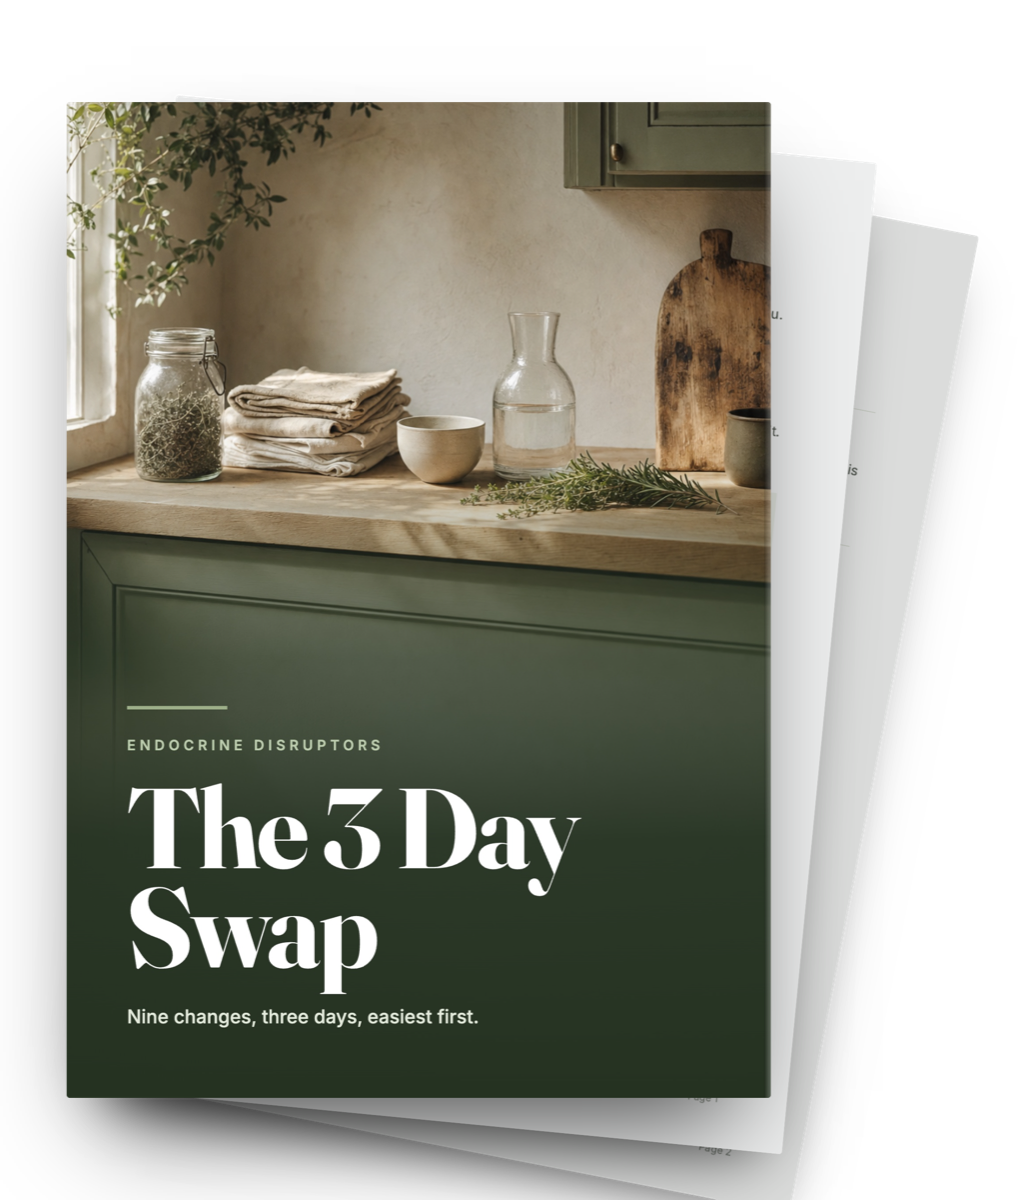
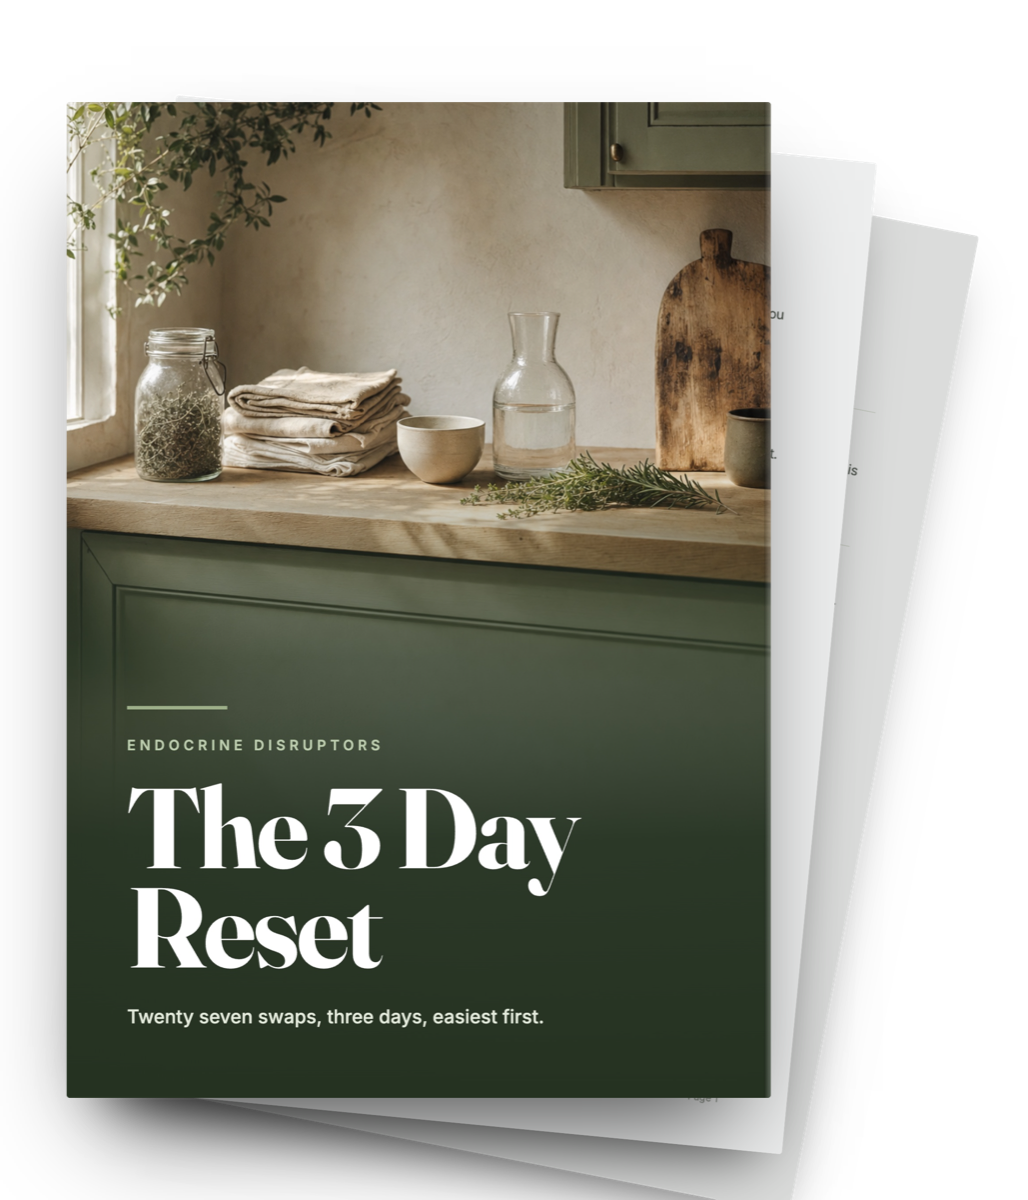
disruptor: The 3 Day Reset, 27 swaps and three food resets

Changed region(s): [[0.1245, 0.74, 0.5292, 0.8633]]

diff --git a/beneve/beneve-disruptor-quiz/b-disruptor-quiz-advanced-result/block.html b/beneve/beneve-disruptor-quiz/b-disruptor-quiz-advanced-result/block.html
@@ -85,8 +85,9 @@
            their most interested. It is short on purpose: the block below carries the detail. -->
       <div class="sk-ask" data-rise>
         <p class="sk-ask-t">Want the full program?</p>
-        <p class="sk-ask-p">The 3 Day Swap is 9 swaps over 3 days,
-          room by room. It's free. Send me the word SWAP and I'll send it over.</p>
+        <p class="sk-ask-p">The 3 Day Reset is 27 swaps over 3 days,
+          9 a day, with a source on every claim and one thing to add at the table each
+          day. It's free. Send me the word SWAP and I'll send it over.</p>
         <a class="sk-ask-btn" href="/b-disruptor-quiz-redirect-dm">Message Me The Word SWAP
           <svg viewBox="0 0 24 24" fill="none" stroke="currentColor" stroke-width="2.2" stroke-linecap="round" stroke-linejoin="round" aria-hidden="true"><path d="M5 12h14M13 6l6 6-6 6"/></svg>
         </a>
@@ -103,28 +104,29 @@
         </figure>
         <div class="sk-prog-body">
           <p class="sk-prog-kicker" data-rise>Your bonus</p>
-          <h2 class="sk-prog-h2" data-rise data-delay="1">The 3 Day Swap</h2>
-          <p class="sk-prog-lede" data-rise data-delay="2">9 swaps over 3 days. Day one costs nothing and you can do it tonight.</p>
+          <h2 class="sk-prog-h2" data-rise data-delay="1">The 3 Day Reset</h2>
+          <p class="sk-prog-lede" data-rise data-delay="2">27 swaps over 3 days, 9 a day, plus one thing to add at the table each day. Day one costs nothing and you can do it tonight.</p>
           <ul class="sk-prog-pills" data-rise data-delay="2">
-            <li>9 swaps</li>
+            <li>27 swaps</li>
             <li>3 days</li>
-            <li>PDF</li>
+            <li>3 food resets</li>
+            <li>Sourced</li>
           </ul>
           <ul class="sk-prog-days" data-rise data-delay="3">
             <li>
               <span class="sk-prog-d">Day 1</span>
               <h3>Nothing to buy</h3>
-              <p>Never heat food in plastic. Damp dust and open a window. Say no to the receipt.</p>
+              <p>Nine habits. Never heat food in plastic. Say no to the receipt. Shoes off at the door. Plus: cruciferous vegetables.</p>
             </li>
             <li>
               <span class="sk-prog-d">Day 2</span>
               <h3>Replace as they run out</h3>
-              <p>Laundry detergent and dryer sheets. Deodorant, body wash and shampoo. Candles, plug-ins and air freshener.</p>
+              <p>Nine swaps. Laundry detergent. Body wash and shampoo. Candles and plug-ins. Cling film. Plus: fibre.</p>
             </li>
             <li>
               <span class="sk-prog-d">Day 3</span>
               <h3>Buy once, keep for years</h3>
-              <p>A water filter. One good pan. Glass or steel for food storage.</p>
+              <p>Nine purchases. A water filter. A shower filter. One good pan. Glass storage. Plus: protein and sulphur foods.</p>
             </li>
           </ul>
           <a class="sk-prog-btn" href="/b-disruptor-quiz-redirect-dm" data-rise data-delay="4">Message Me The Word SWAP
@@ -148,7 +150,7 @@
   </section>
 
   <div class="sk-prog-bar">
-    <span><b>Bonus</b>The 3 Day Swap, free for a message</span>
+    <span><b>Bonus</b>The 3 Day Reset, free for a message</span>
     <a href="/b-disruptor-quiz-redirect-dm">Message SWAP</a>
   </div>
 

diff --git a/beneve/beneve-disruptor-quiz/b-disruptor-quiz-partway-result/block.html b/beneve/beneve-disruptor-quiz/b-disruptor-quiz-partway-result/block.html
@@ -85,8 +85,9 @@
            their most interested. It is short on purpose: the block below carries the detail. -->
       <div class="sk-ask" data-rise>
         <p class="sk-ask-t">Want the full program?</p>
-        <p class="sk-ask-p">The 3 Day Swap is 9 swaps over 3 days,
-          room by room. It's free. Send me the word SWAP and I'll send it over.</p>
+        <p class="sk-ask-p">The 3 Day Reset is 27 swaps over 3 days,
+          9 a day, with a source on every claim and one thing to add at the table each
+          day. It's free. Send me the word SWAP and I'll send it over.</p>
         <a class="sk-ask-btn" href="/b-disruptor-quiz-redirect-dm">Message Me The Word SWAP
           <svg viewBox="0 0 24 24" fill="none" stroke="currentColor" stroke-width="2.2" stroke-linecap="round" stroke-linejoin="round" aria-hidden="true"><path d="M5 12h14M13 6l6 6-6 6"/></svg>
         </a>
@@ -103,28 +104,29 @@
         </figure>
         <div class="sk-prog-body">
           <p class="sk-prog-kicker" data-rise>Your bonus</p>
-          <h2 class="sk-prog-h2" data-rise data-delay="1">The 3 Day Swap</h2>
-          <p class="sk-prog-lede" data-rise data-delay="2">9 swaps over 3 days. Day one costs nothing and you can do it tonight.</p>
+          <h2 class="sk-prog-h2" data-rise data-delay="1">The 3 Day Reset</h2>
+          <p class="sk-prog-lede" data-rise data-delay="2">27 swaps over 3 days, 9 a day, plus one thing to add at the table each day. Day one costs nothing and you can do it tonight.</p>
           <ul class="sk-prog-pills" data-rise data-delay="2">
-            <li>9 swaps</li>
+            <li>27 swaps</li>
             <li>3 days</li>
-            <li>PDF</li>
+            <li>3 food resets</li>
+            <li>Sourced</li>
           </ul>
           <ul class="sk-prog-days" data-rise data-delay="3">
             <li>
               <span class="sk-prog-d">Day 1</span>
               <h3>Nothing to buy</h3>
-              <p>Never heat food in plastic. Damp dust and open a window. Say no to the receipt.</p>
+              <p>Nine habits. Never heat food in plastic. Say no to the receipt. Shoes off at the door. Plus: cruciferous vegetables.</p>
             </li>
             <li>
               <span class="sk-prog-d">Day 2</span>
               <h3>Replace as they run out</h3>
-              <p>Laundry detergent and dryer sheets. Deodorant, body wash and shampoo. Candles, plug-ins and air freshener.</p>
+              <p>Nine swaps. Laundry detergent. Body wash and shampoo. Candles and plug-ins. Cling film. Plus: fibre.</p>
             </li>
             <li>
               <span class="sk-prog-d">Day 3</span>
               <h3>Buy once, keep for years</h3>
-              <p>A water filter. One good pan. Glass or steel for food storage.</p>
+              <p>Nine purchases. A water filter. A shower filter. One good pan. Glass storage. Plus: protein and sulphur foods.</p>
             </li>
           </ul>
           <a class="sk-prog-btn" href="/b-disruptor-quiz-redirect-dm" data-rise data-delay="4">Message Me The Word SWAP
@@ -148,7 +150,7 @@
   </section>
 
   <div class="sk-prog-bar">
-    <span><b>Bonus</b>The 3 Day Swap, free for a message</span>
+    <span><b>Bonus</b>The 3 Day Reset, free for a message</span>
     <a href="/b-disruptor-quiz-redirect-dm">Message SWAP</a>
   </div>
 

diff --git a/beneve/beneve-disruptor-quiz/b-disruptor-quiz-starting-out-result/block.html b/beneve/beneve-disruptor-quiz/b-disruptor-quiz-starting-out-result/block.html
@@ -85,8 +85,9 @@
            their most interested. It is short on purpose: the block below carries the detail. -->
       <div class="sk-ask" data-rise>
         <p class="sk-ask-t">Want the full program?</p>
-        <p class="sk-ask-p">The 3 Day Swap is 9 swaps over 3 days,
-          room by room. It's free. Send me the word SWAP and I'll send it over.</p>
+        <p class="sk-ask-p">The 3 Day Reset is 27 swaps over 3 days,
+          9 a day, with a source on every claim and one thing to add at the table each
+          day. It's free. Send me the word SWAP and I'll send it over.</p>
         <a class="sk-ask-btn" href="/b-disruptor-quiz-redirect-dm">Message Me The Word SWAP
           <svg viewBox="0 0 24 24" fill="none" stroke="currentColor" stroke-width="2.2" stroke-linecap="round" stroke-linejoin="round" aria-hidden="true"><path d="M5 12h14M13 6l6 6-6 6"/></svg>
         </a>
@@ -103,28 +104,29 @@
         </figure>
         <div class="sk-prog-body">
           <p class="sk-prog-kicker" data-rise>Your bonus</p>
-          <h2 class="sk-prog-h2" data-rise data-delay="1">The 3 Day Swap</h2>
-          <p class="sk-prog-lede" data-rise data-delay="2">9 swaps over 3 days. Day one costs nothing and you can do it tonight.</p>
+          <h2 class="sk-prog-h2" data-rise data-delay="1">The 3 Day Reset</h2>
+          <p class="sk-prog-lede" data-rise data-delay="2">27 swaps over 3 days, 9 a day, plus one thing to add at the table each day. Day one costs nothing and you can do it tonight.</p>
           <ul class="sk-prog-pills" data-rise data-delay="2">
-            <li>9 swaps</li>
+            <li>27 swaps</li>
             <li>3 days</li>
-            <li>PDF</li>
+            <li>3 food resets</li>
+            <li>Sourced</li>
           </ul>
           <ul class="sk-prog-days" data-rise data-delay="3">
             <li>
               <span class="sk-prog-d">Day 1</span>
               <h3>Nothing to buy</h3>
-              <p>Never heat food in plastic. Damp dust and open a window. Say no to the receipt.</p>
+              <p>Nine habits. Never heat food in plastic. Say no to the receipt. Shoes off at the door. Plus: cruciferous vegetables.</p>
             </li>
             <li>
               <span class="sk-prog-d">Day 2</span>
               <h3>Replace as they run out</h3>
-              <p>Laundry detergent and dryer sheets. Deodorant, body wash and shampoo. Candles, plug-ins and air freshener.</p>
+              <p>Nine swaps. Laundry detergent. Body wash and shampoo. Candles and plug-ins. Cling film. Plus: fibre.</p>
             </li>
             <li>
               <span class="sk-prog-d">Day 3</span>
               <h3>Buy once, keep for years</h3>
-              <p>A water filter. One good pan. Glass or steel for food storage.</p>
+              <p>Nine purchases. A water filter. A shower filter. One good pan. Glass storage. Plus: protein and sulphur foods.</p>
             </li>
           </ul>
           <a class="sk-prog-btn" href="/b-disruptor-quiz-redirect-dm" data-rise data-delay="4">Message Me The Word SWAP
@@ -148,7 +150,7 @@
   </section>
 
   <div class="sk-prog-bar">
-    <span><b>Bonus</b>The 3 Day Swap, free for a message</span>
+    <span><b>Bonus</b>The 3 Day Reset, free for a message</span>
     <a href="/b-disruptor-quiz-redirect-dm">Message SWAP</a>
   </div>
 
